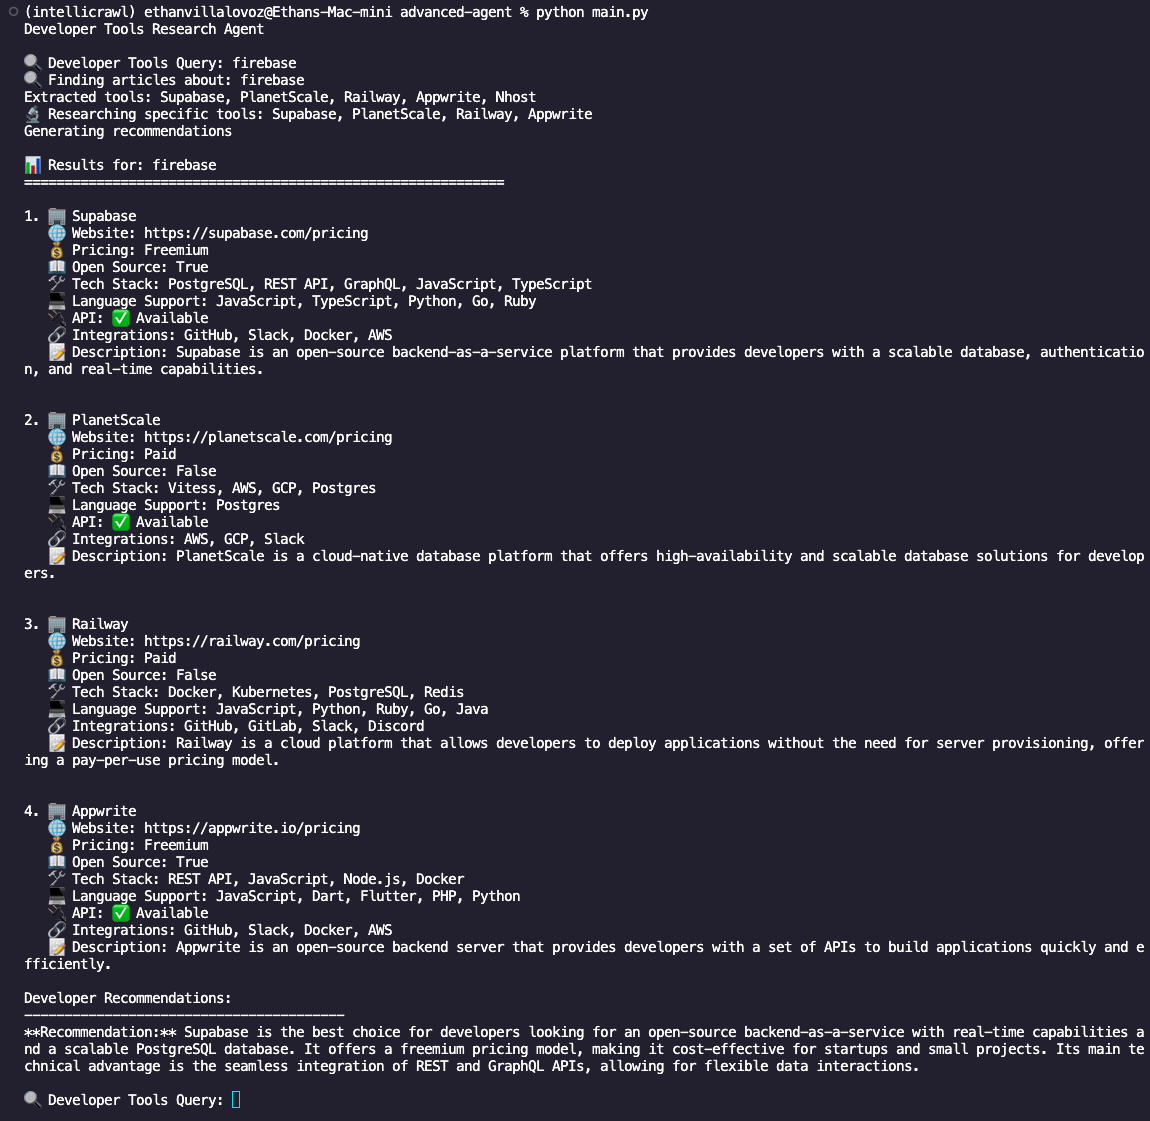
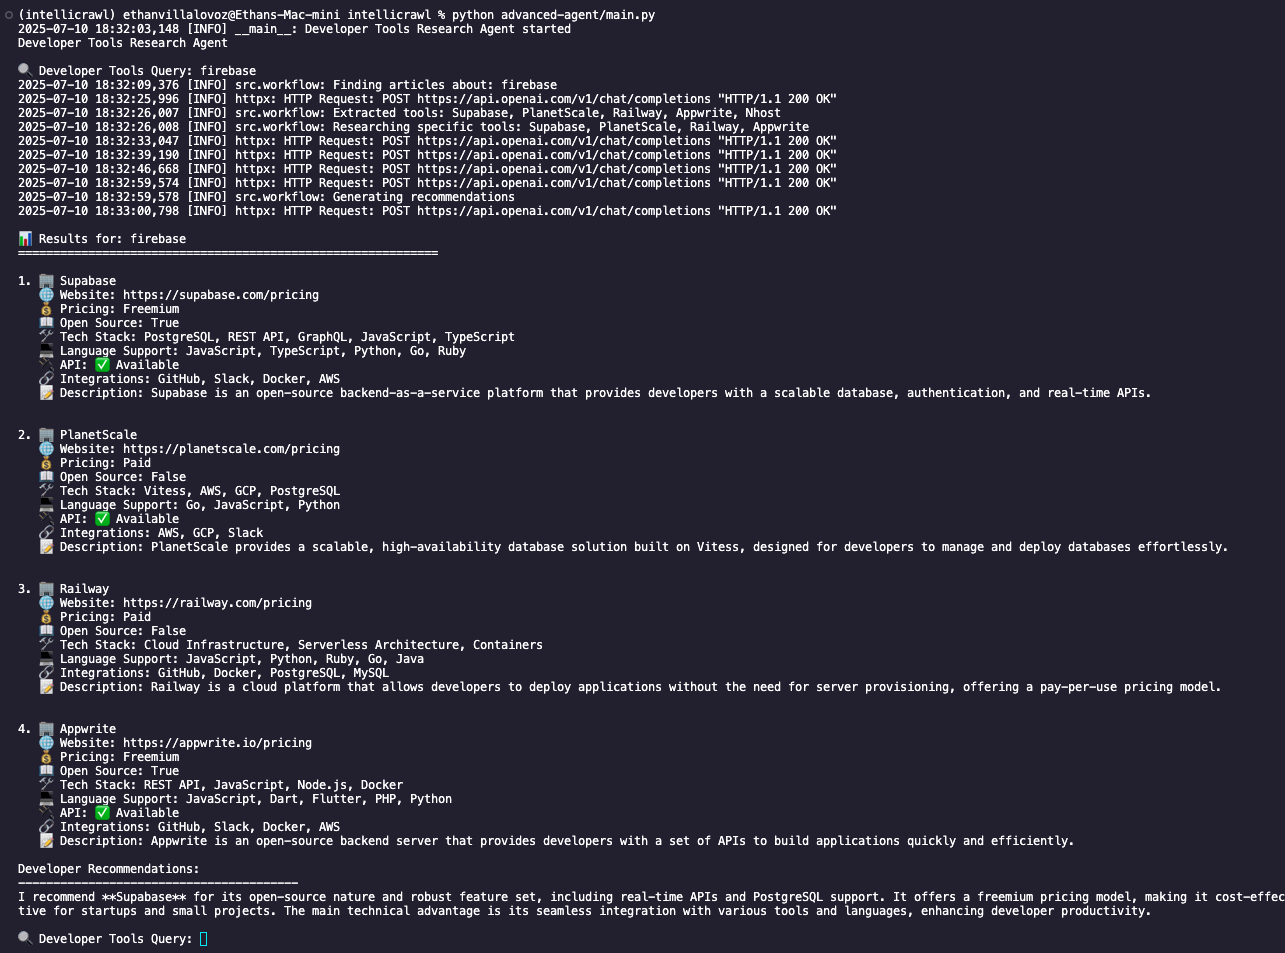
Error Handling & Logging Add robust logging (using Python’s logging module) for better traceability instead of just printing errors. Implement more granular exception handling and user-friendly error messages.

Changed region(s): [[0.0, 0.0, 1.0, 1.0], [0.9435, 0.4869, 1.0, 0.5173]]

diff --git a/advanced-agent/main.py b/advanced-agent/main.py
@@ -1,5 +1,11 @@
+import logging
 from dotenv import load_dotenv
 from src.workflow import Workflow
+from src.logging_config import setup_logging
+
+# Set up logging
+setup_logging()
+logger = logging.getLogger(__name__)
 
 # Load environment variables from .env file
 load_dotenv()
@@ -11,61 +17,68 @@ def main():
     Handles user input, runs the research workflow, and displays results.
     """
     workflow = Workflow()
+    logger.info("Developer Tools Research Agent started")
     print("Developer Tools Research Agent")
 
     while True:
-        # Prompt user for a developer tools query
-        query = input("\n🔍 Developer Tools Query: ").strip()
-        if query.lower() in {"quit", "exit"}:
+        try:
+            # Prompt user for a developer tools query
+            query = input("\n🔍 Developer Tools Query: ").strip()
+            if query.lower() in {"quit", "exit"}:
+                logger.info("User exited the agent.")
+                break
+
+            if query:
+                # Run the research workflow for the user's query
+                result = workflow.run(query)
+                print(f"\n📊 Results for: {query}")
+                print("=" * 60)
+
+                # Display information for each researched company/tool
+                for i, company in enumerate(result.companies, 1):
+                    print(f"\n{i}. 🏢 {company.name}")
+                    print(f"   🌐 Website: {company.website}")
+                    print(f"   💰 Pricing: {company.pricing_model}")
+                    print(f"   📖 Open Source: {company.is_open_source}")
+
+                    # Show tech stack if available
+                    if company.tech_stack:
+                        print(f"   🛠  Tech Stack: {', '.join(company.tech_stack[:5])}")
+
+                    # Show supported programming languages if available
+                    if company.language_support:
+                        print(
+                            f"   💻 Language Support: {', '.join(company.language_support[:5])}"
+                        )
+
+                    # Show API availability status
+                    if company.api_available is not None:
+                        api_status = (
+                            "✅ Available" if company.api_available else "❌ Not Available"
+                        )
+                        print(f"   🔌 API: {api_status}")
+
+                    # Show integration capabilities if available
+                    if company.integration_capabilities:
+                        print(
+                            f"   🔗 Integrations: {', '.join(company.integration_capabilities[:4])}"
+                        )
+
+                    # Show company/tool description if available and valid
+                    if company.description and company.description != "Analysis failed":
+                        print(f"   📝 Description: {company.description}")
+
+                    print()  # Blank line for readability
+
+                # Display developer recommendations if available
+                if result.analysis:
+                    print("Developer Recommendations: ")
+                    print("-" * 40)
+                    print(result.analysis)
+        except Exception as e:
+            logger.critical(f"Fatal error in main loop: {e}")
+            print("A fatal error occurred. Please check the logs for details.")
             break
-
-        if query:
-            # Run the research workflow for the user's query
-            result = workflow.run(query)
-            print(f"\n📊 Results for: {query}")
-            print("=" * 60)
-
-            # Display information for each researched company/tool
-            for i, company in enumerate(result.companies, 1):
-                print(f"\n{i}. 🏢 {company.name}")
-                print(f"   🌐 Website: {company.website}")
-                print(f"   💰 Pricing: {company.pricing_model}")
-                print(f"   📖 Open Source: {company.is_open_source}")
-
-                # Show tech stack if available
-                if company.tech_stack:
-                    print(f"   🛠  Tech Stack: {', '.join(company.tech_stack[:5])}")
-
-                # Show supported programming languages if available
-                if company.language_support:
-                    print(
-                        f"   💻 Language Support: {', '.join(company.language_support[:5])}"
-                    )
-
-                # Show API availability status
-                if company.api_available is not None:
-                    api_status = (
-                        "✅ Available" if company.api_available else "❌ Not Available"
-                    )
-                    print(f"   🔌 API: {api_status}")
-
-                # Show integration capabilities if available
-                if company.integration_capabilities:
-                    print(
-                        f"   🔗 Integrations: {', '.join(company.integration_capabilities[:4])}"
-                    )
-
-                # Show company/tool description if available and valid
-                if company.description and company.description != "Analysis failed":
-                    print(f"   📝 Description: {company.description}")
-
-                print()  # Blank line for readability
-
-            # Display developer recommendations if available
-            if result.analysis:
-                print("Developer Recommendations: ")
-                print("-" * 40)
-                print(result.analysis)
 
 
 if __name__ == "__main__":

diff --git a/advanced-agent/src/workflow.py b/advanced-agent/src/workflow.py
@@ -1,3 +1,4 @@
+import logging
 from typing import Dict, Any
 from langgraph.graph import StateGraph, END
 from langchain_openai import ChatOpenAI
@@ -5,6 +6,11 @@ from langchain_core.messages import HumanMessage, SystemMessage
 from .models import ResearchState, CompanyInfo, CompanyAnalysis
 from .firecrawl import FirecrawlService
 from .prompts import DeveloperToolsPrompts
+from .logging_config import setup_logging
+
+# Set up logging
+setup_logging()
+logger = logging.getLogger(__name__)
 
 class Workflow:
     """
@@ -37,10 +43,7 @@ class Workflow:
         return graph.compile()
 
     def _extract_tools_step(self, state: ResearchState) -> Dict[str, Any]:
-        """
-        Step 1: Search for articles and extract developer tool names.
-        """
-        print(f"🔍 Finding articles about: {state.query}")
+        logger.info(f"Finding articles about: {state.query}")
 
         # Formulate search query for articles
         article_query = f"{state.query} tools comparison best alternatives"
@@ -68,10 +71,10 @@ class Workflow:
                 for name in response.content.strip().split("\n")
                 if name.strip()
             ]
-            print(f"Extracted tools: {', '.join(tool_names[:5])}")
+            logger.info(f"Extracted tools: {', '.join(tool_names[:5])}")
             return {"extracted_tools": tool_names}
         except Exception as e:
-            print(f"Error extracting tools: {e}")
+            logger.exception("Error extracting tools")
             return {"extracted_tools": []}
 
     def _analyze_company_content(self, company_name: str, content: str) -> CompanyAnalysis:
@@ -89,12 +92,12 @@ class Workflow:
             analysis = structured_llm.invoke(messages)
             return analysis
         except Exception as e:
-            print(f"Error analyzing company content: {e}")
+            logger.exception(f"Error analyzing company content for {company_name}")
             return CompanyAnalysis(
                 pricing_model="Unknown",
                 is_open_source=None,
                 tech_stack=[],
-                description="Failed",
+                description="Analysis failed",
                 api_available=None,
                 language_support=[],
                 integration_capabilities=[],
@@ -108,7 +111,7 @@ class Workflow:
 
         # Fallback to direct search if no tools extracted
         if not extracted_tools:
-            print("⚠ No extracted tools found, falling back to direct search")
+            logger.warning("No extracted tools found, falling back to direct search")
             search_results = self.firecrawl.search_companies(state.query, num_results=4)
             tool_names = [
                 result.get("metadata", {}).get("title", "Unknown")
@@ -117,7 +120,7 @@ class Workflow:
         else:
             tool_names = extracted_tools[:4]
 
-        print(f"🔬 Researching specific tools: {', '.join(tool_names)}")
+        logger.info(f"Researching specific tools: {', '.join(tool_names)}")
 
         companies = []
         for tool_name in tool_names:
@@ -158,7 +161,7 @@ class Workflow:
         """
         Step 3: Generate recommendations based on researched companies.
         """
-        print("Generating recommendations")
+        logger.info("Generating recommendations")
 
         # Serialize company data for LLM input
         company_data = ", ".join([
@@ -170,8 +173,12 @@ class Workflow:
             HumanMessage(content=self.prompts.recommendations_user(state.query, company_data))
         ]
 
-        response = self.llm.invoke(messages)
-        return {"analysis": response.content}
+        try:
+            response = self.llm.invoke(messages)
+            return {"analysis": response.content}
+        except Exception as e:
+            logger.exception("Error generating recommendations")
+            return {"analysis": "Analysis failed due to an error."}
 
     def run(self, query: str) -> ResearchState:
         """
@@ -179,5 +186,9 @@ class Workflow:
         Returns the final research state.
         """
         initial_state = ResearchState(query=query)
-        final_state = self.workflow.invoke(initial_state)
-        return ResearchState(**final_state)
+        try:
+            final_state = self.workflow.invoke(initial_state)
+            return ResearchState(**final_state)
+        except Exception as e:
+            logger.critical(f"Workflow failed for query '{query}': {e}")
+            return ResearchState(query=query)

diff --git a/advanced-agent/src/firecrawl.py b/advanced-agent/src/firecrawl.py
@@ -1,6 +1,12 @@
 import os
+import logging
 from firecrawl import FirecrawlApp, ScrapeOptions
 from dotenv import load_dotenv
+
+# Import and set up logging
+from .logging_config import setup_logging
+setup_logging()
+logger = logging.getLogger(__name__)
 
 # Load environment variables from .env file
 load_dotenv()
@@ -19,6 +25,7 @@ class FirecrawlService:
         """
         api_key = os.getenv("FIRECRAWL_API_KEY")
         if not api_key:
+            logger.error("Missing FIRECRAWL_API_KEY environment variable")
             raise ValueError("Missing FIRECRAWL_API_KEY environment variable")
         self.app = FirecrawlApp(api_key=api_key)
 
@@ -36,8 +43,11 @@ class FirecrawlService:
                 )
             )
             return result
+        except ConnectionError as ce:
+            logger.error(f"Network error during search_companies: {ce}")
+            return []
         except Exception as e:
-            print(f"Error in search_companies: {e}")
+            logger.exception("Unexpected error in search_companies")
             return []
 
     def scrape_company_pages(self, url: str):
@@ -51,6 +61,9 @@ class FirecrawlService:
                 formats=["markdown"]
             )
             return result
+        except ValueError as ve:
+            logger.warning(f"Invalid URL provided: {url} - {ve}")
+            return None
         except Exception as e:
-            print(f"Error in scrape_company_pages: {e}")
+            logger.exception("Unexpected error in scrape_company_pages")
             return None

diff --git a/advanced-agent/src/logging_config.py b/advanced-agent/src/logging_config.py
@@ -1,0 +1,10 @@
+import logging
+
+def setup_logging():
+    logging.basicConfig(
+        level=logging.INFO,
+        format="%(asctime)s [%(levelname)s] %(name)s: %(message)s",
+        handlers=[
+            logging.StreamHandler()
+        ]
+    )

diff --git a/README.md b/README.md
@@ -1,2 +1,10 @@
 # intellicrawl
 An advanced multi-step AI research agent using LangGraph, LangChain, and Firecrawl for autonomous web-powered knowledge extraction.
+
+conda create -n intellicrawl python=3.13
+
+https://www.firecrawl.dev/
+https://platform.openai.com/api-keys
+https://platform.openai.com/docs/pricing
+
+you need npm to be installed on your computer
